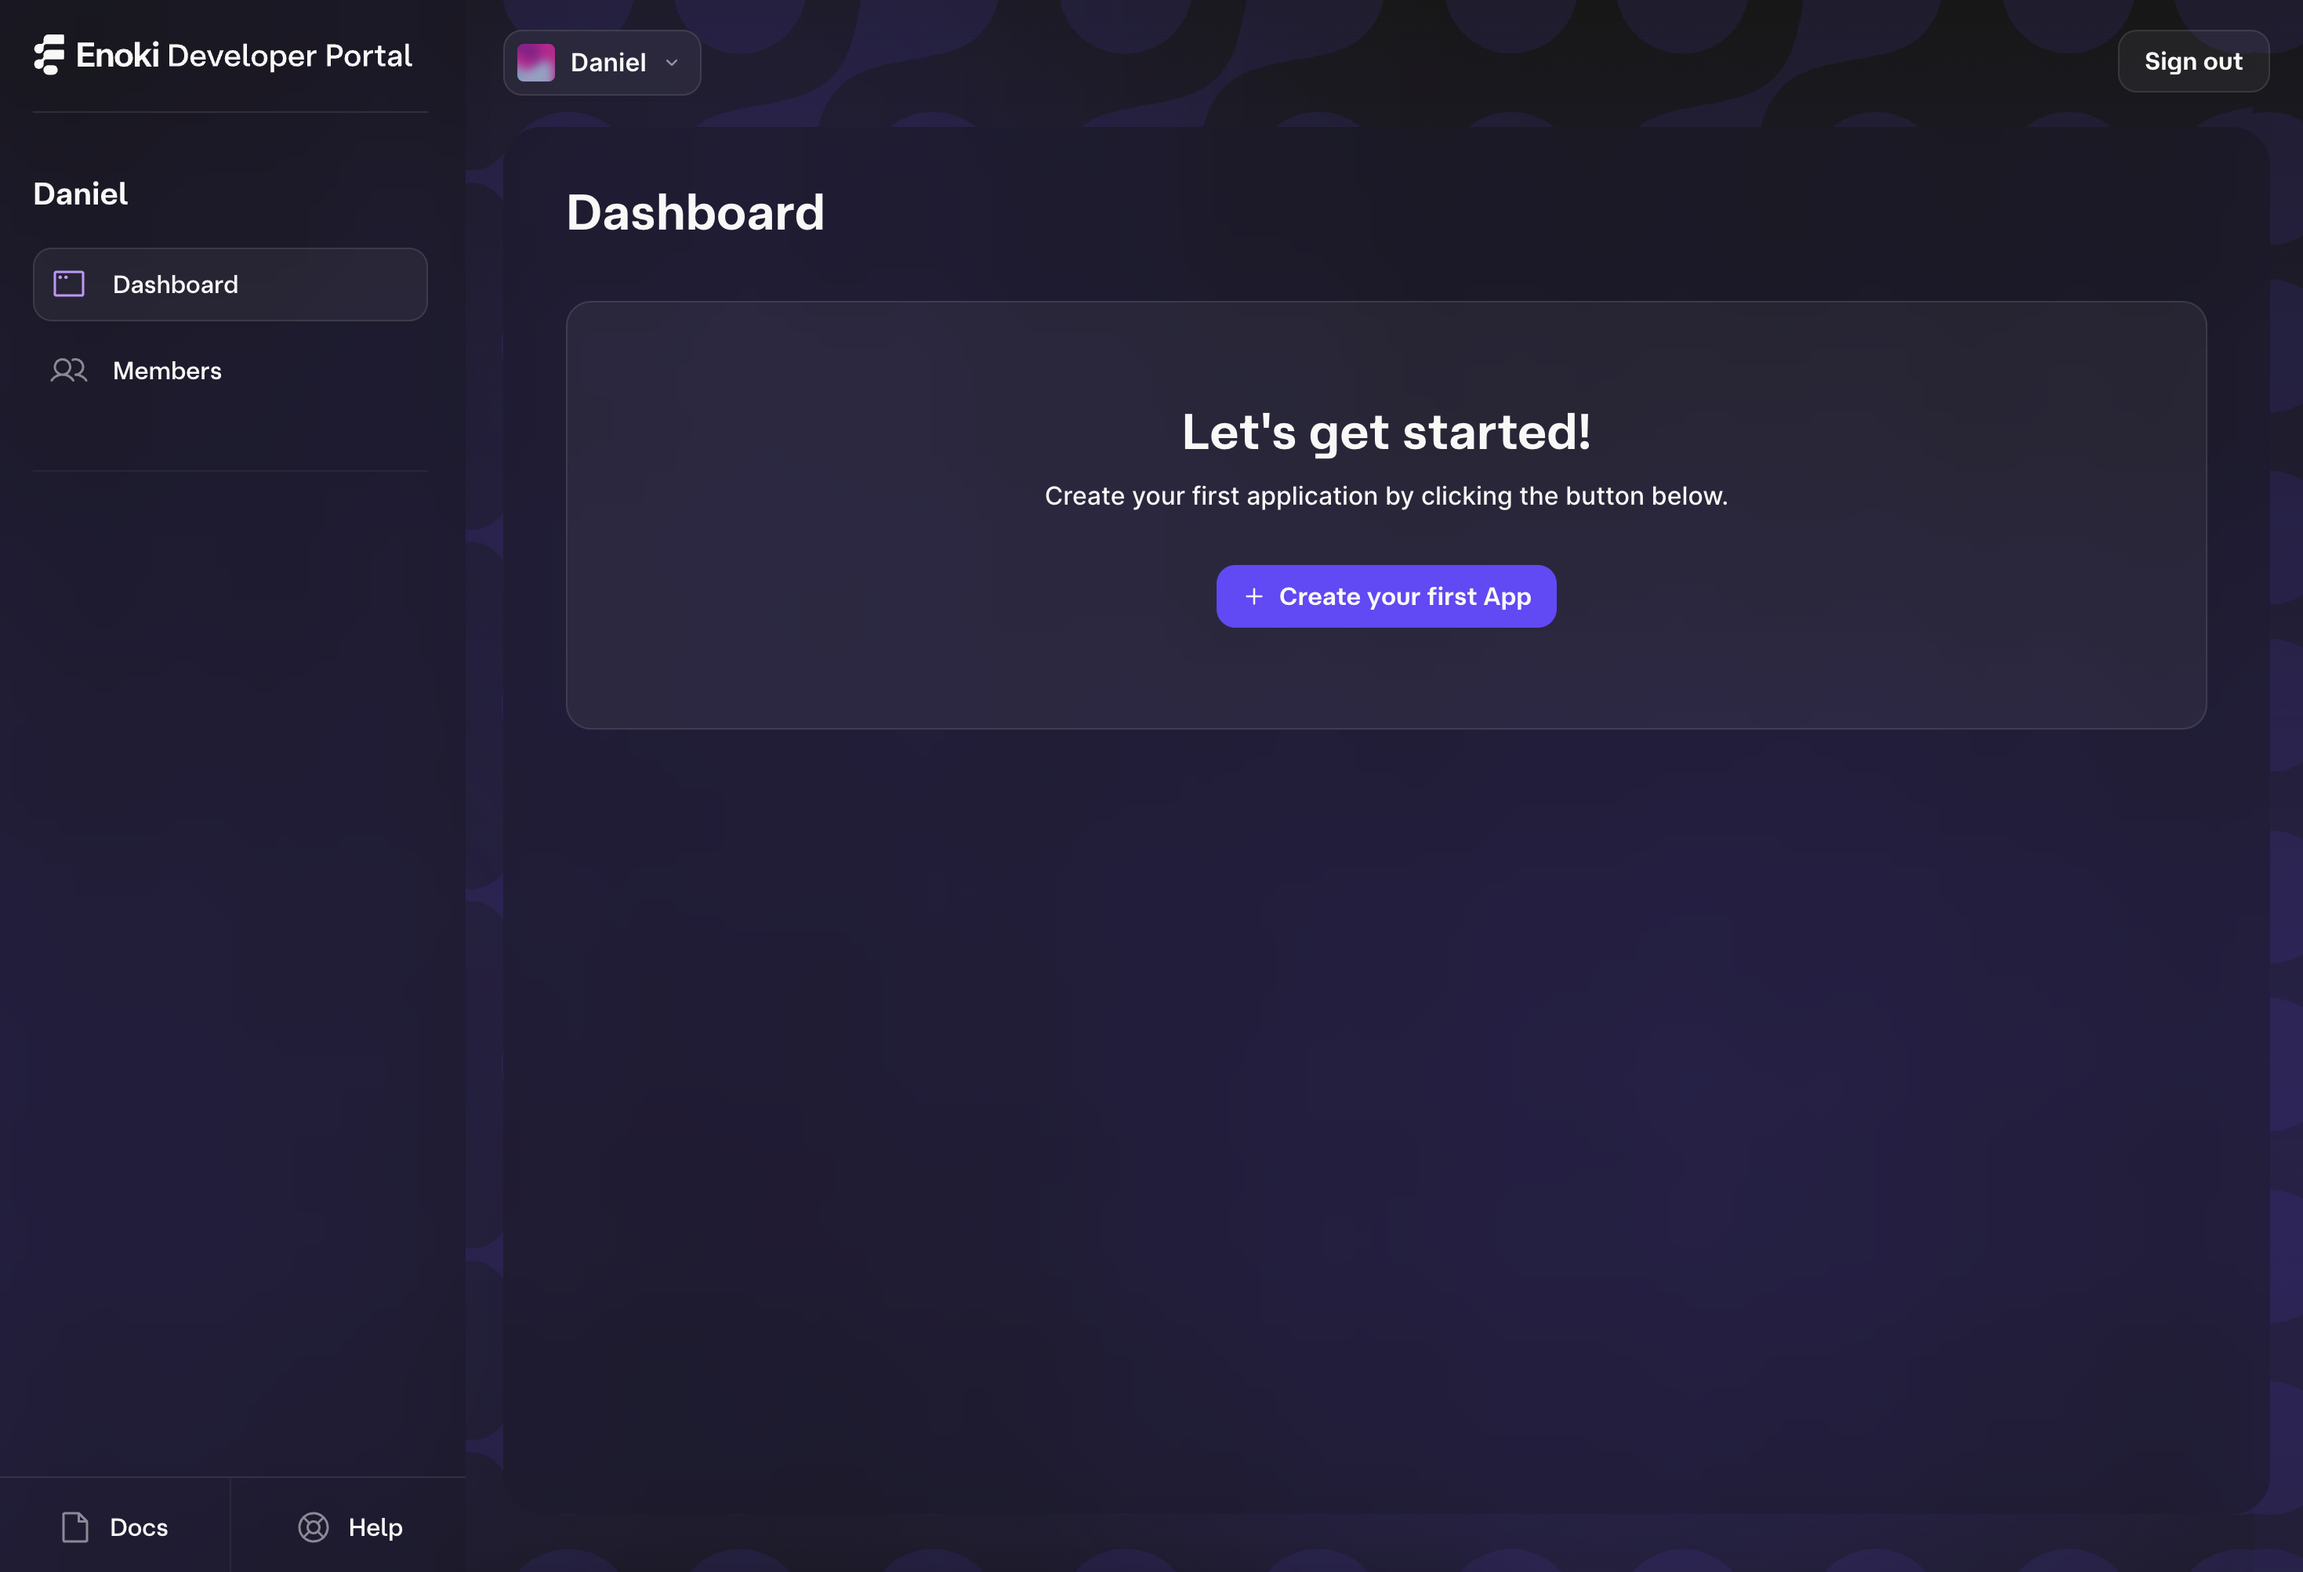
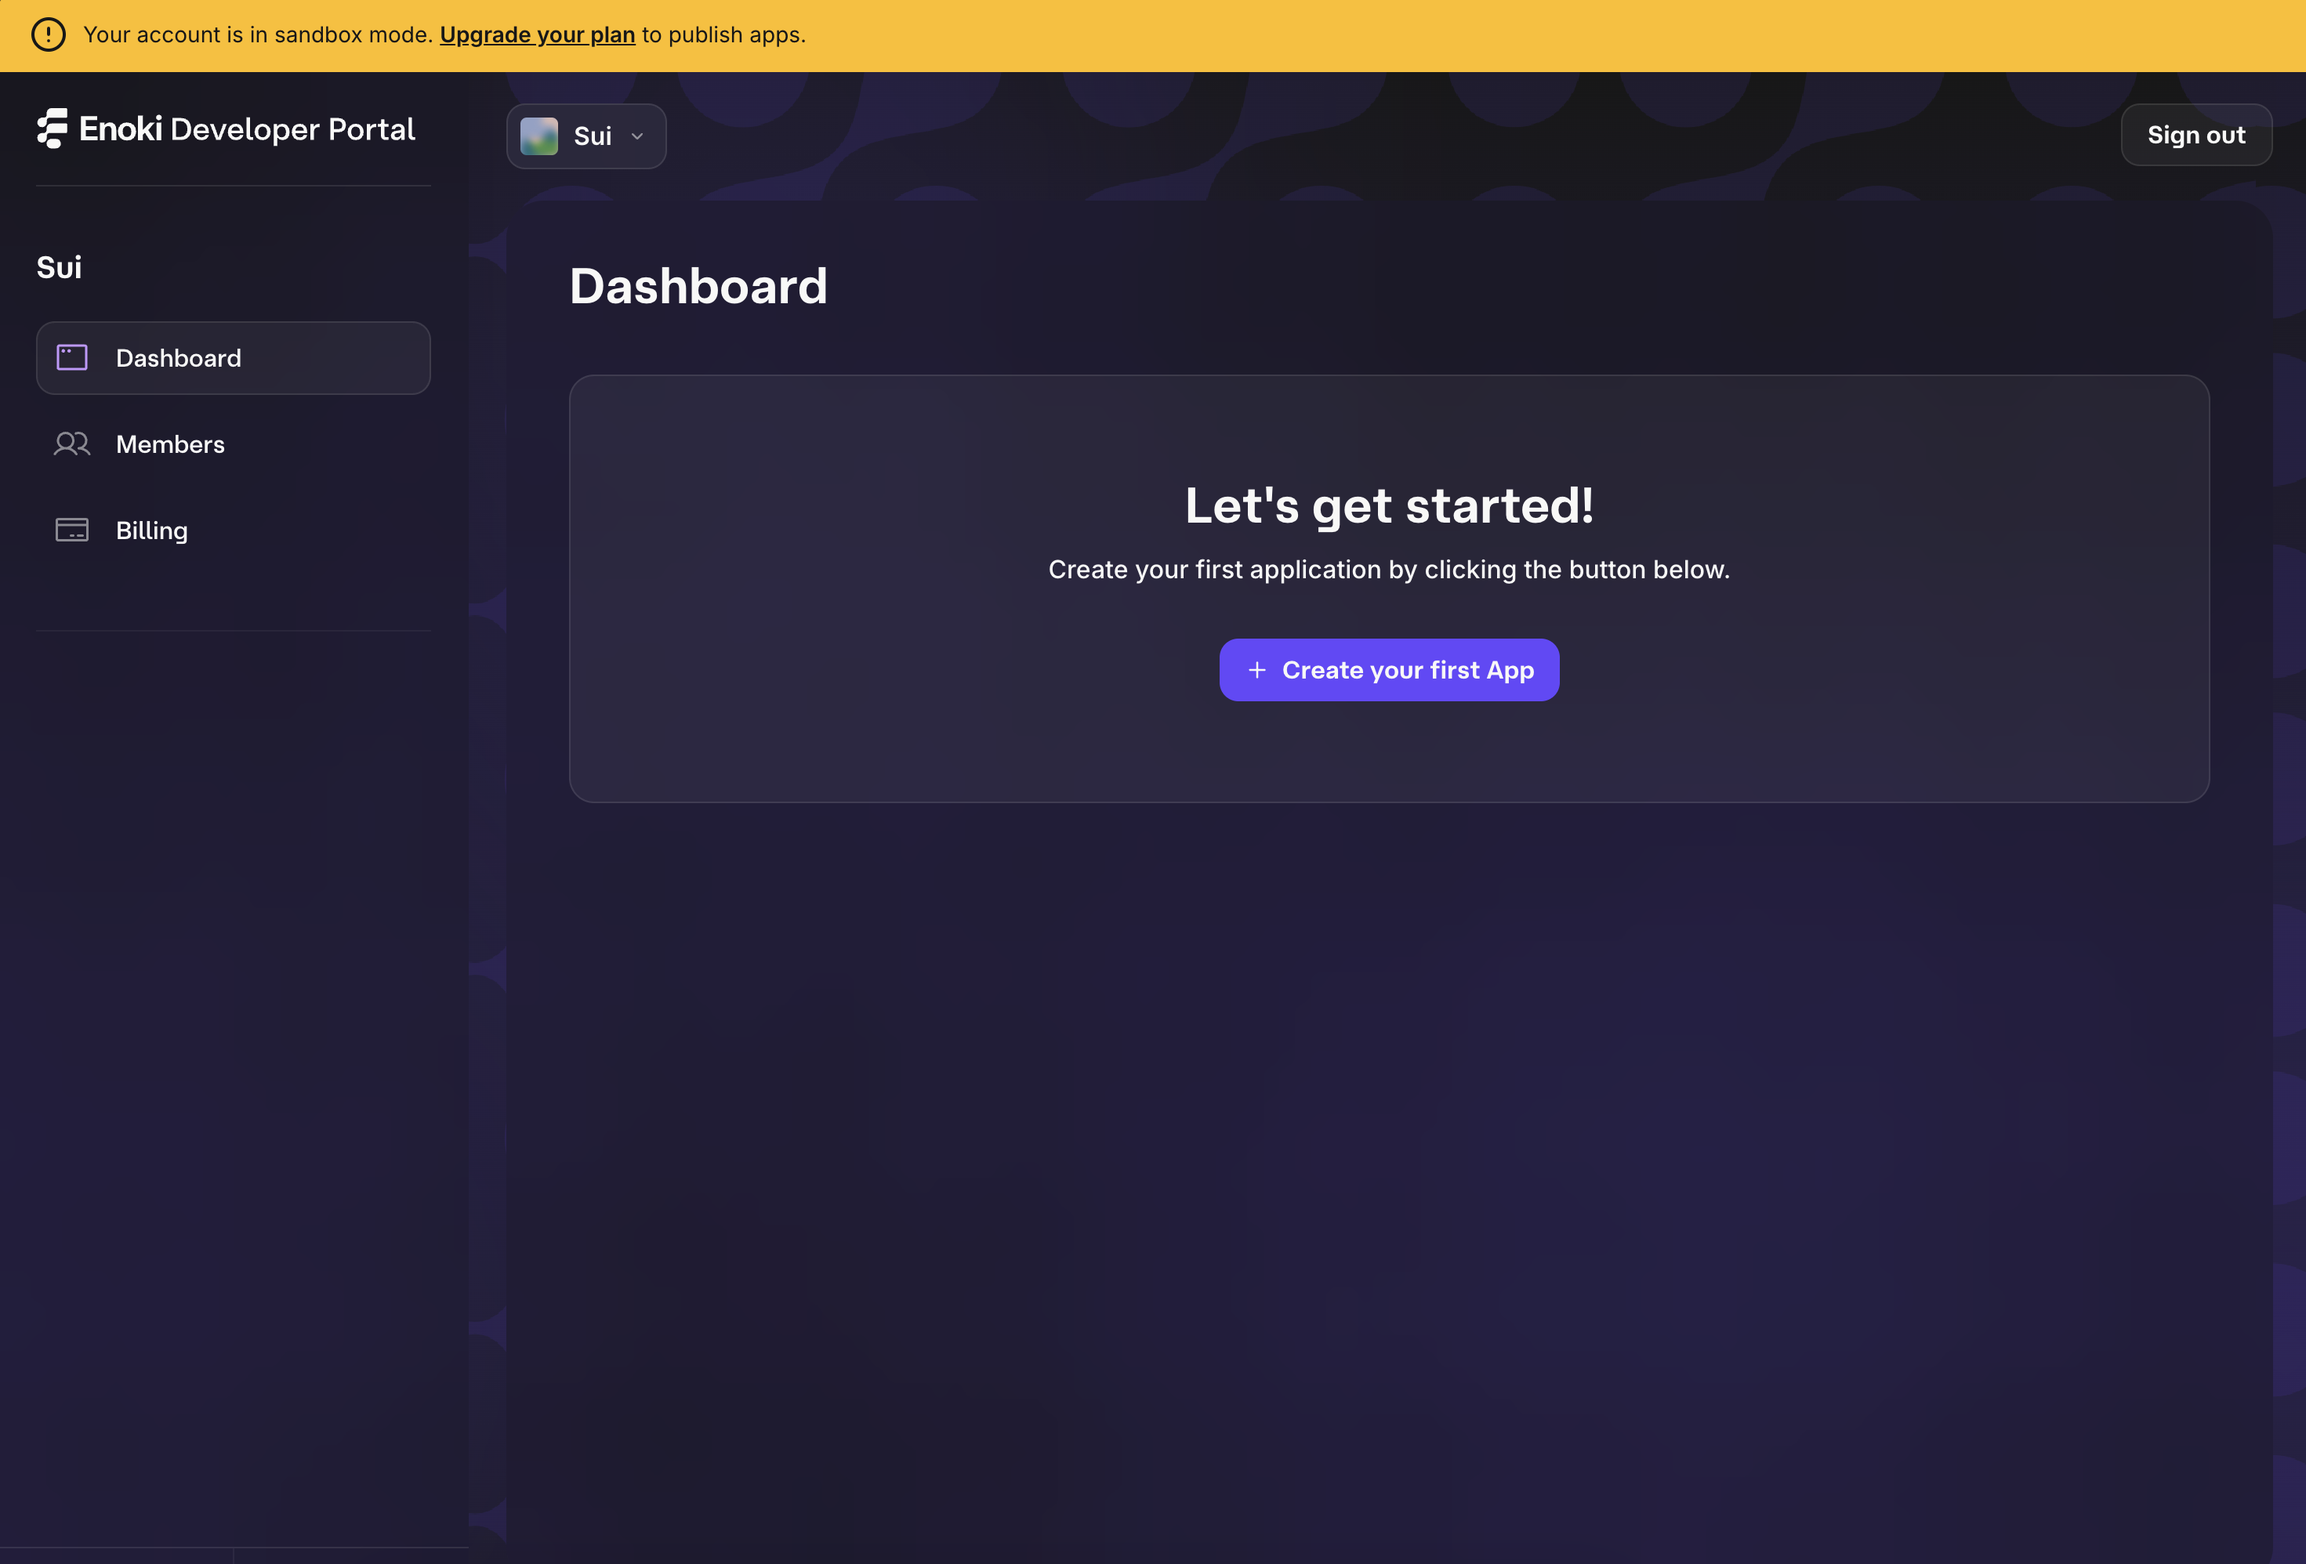
update enoki sign up pics

diff --git a/README.md b/README.md
@@ -16,7 +16,7 @@ In order to use Enoki, you need to sign into the Enoki Dev Portal and set up you
 
 1. Navigate to the [Enoki Dev Portal](https://portal.enoki.mystenlabs.com) and sign in with the email you want to manage your project with. 
 
-    Note, that during your first time signing in, you'll be asked to provide some info to help Mysten Labs keep informed about who is using Enoki. 
+    Note, that during your first time signing in, you'll be asked to provide some info to help Mysten Labs keep informed about who is using Enoki. You will also be prompted to select your payment plan. Go ahead and skip this for now.
 
     The portal should look something like this when you successfully log on: 
     ![Empty Portal](images/empty-dev-portal.png)
